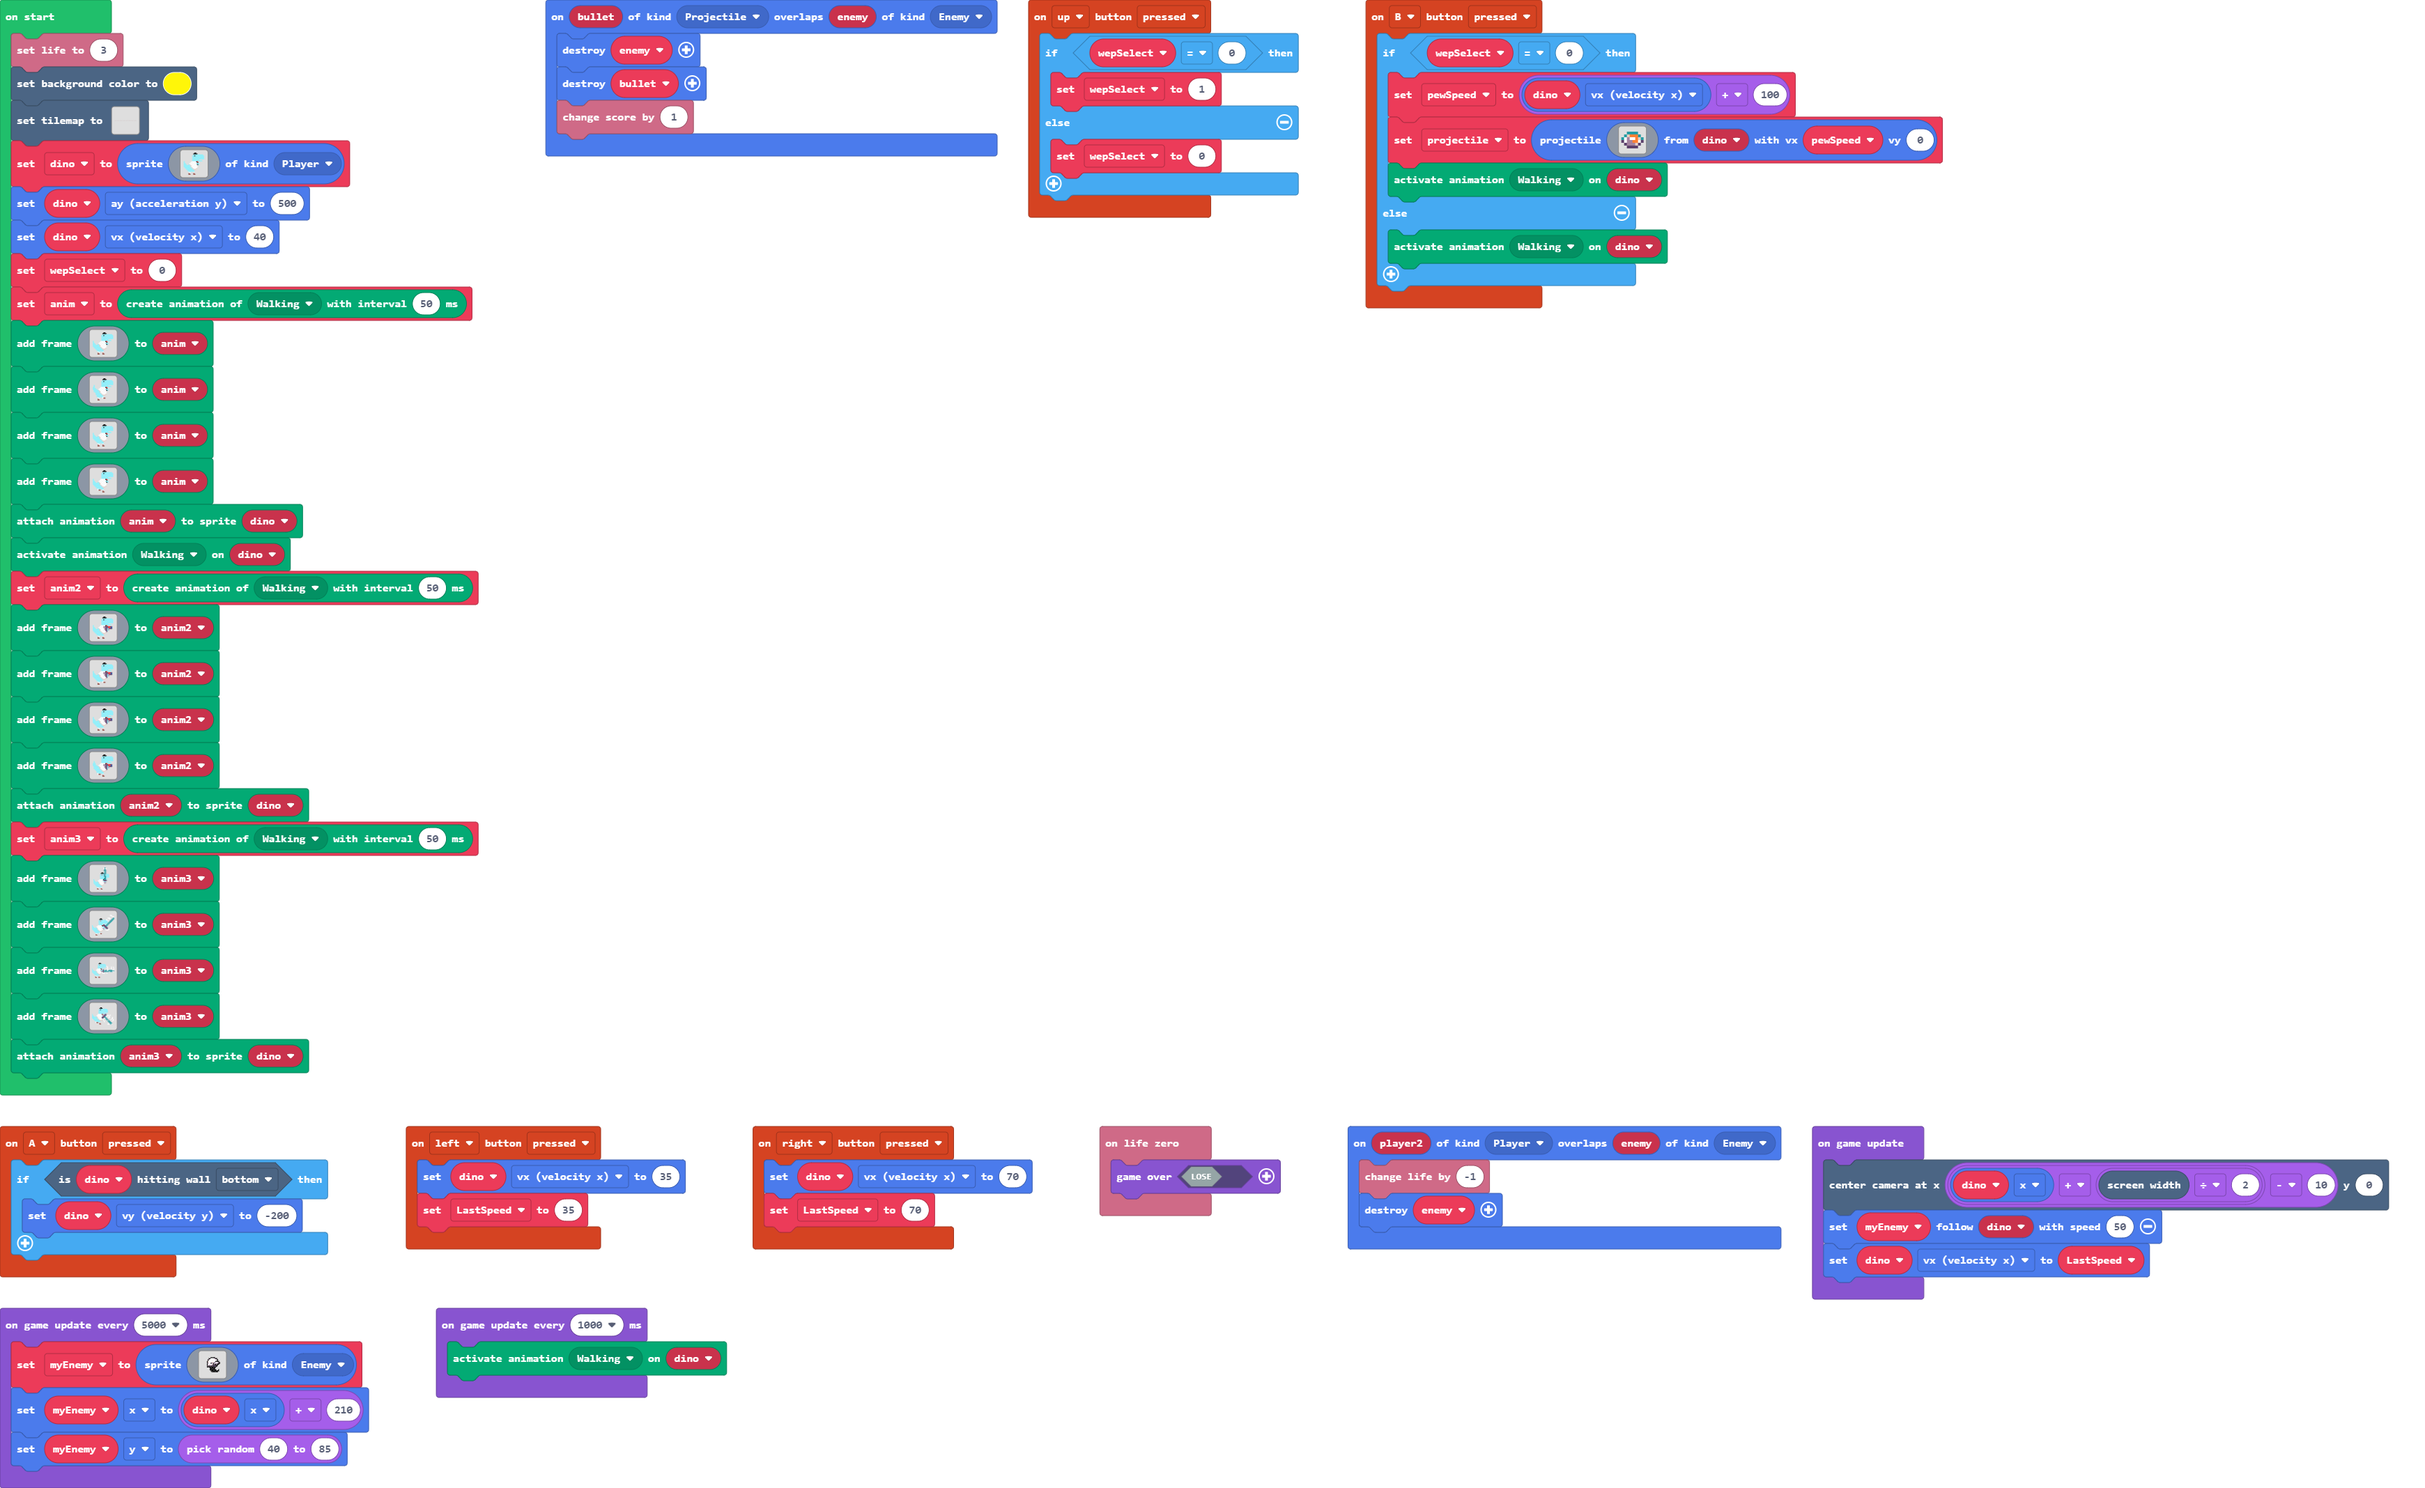
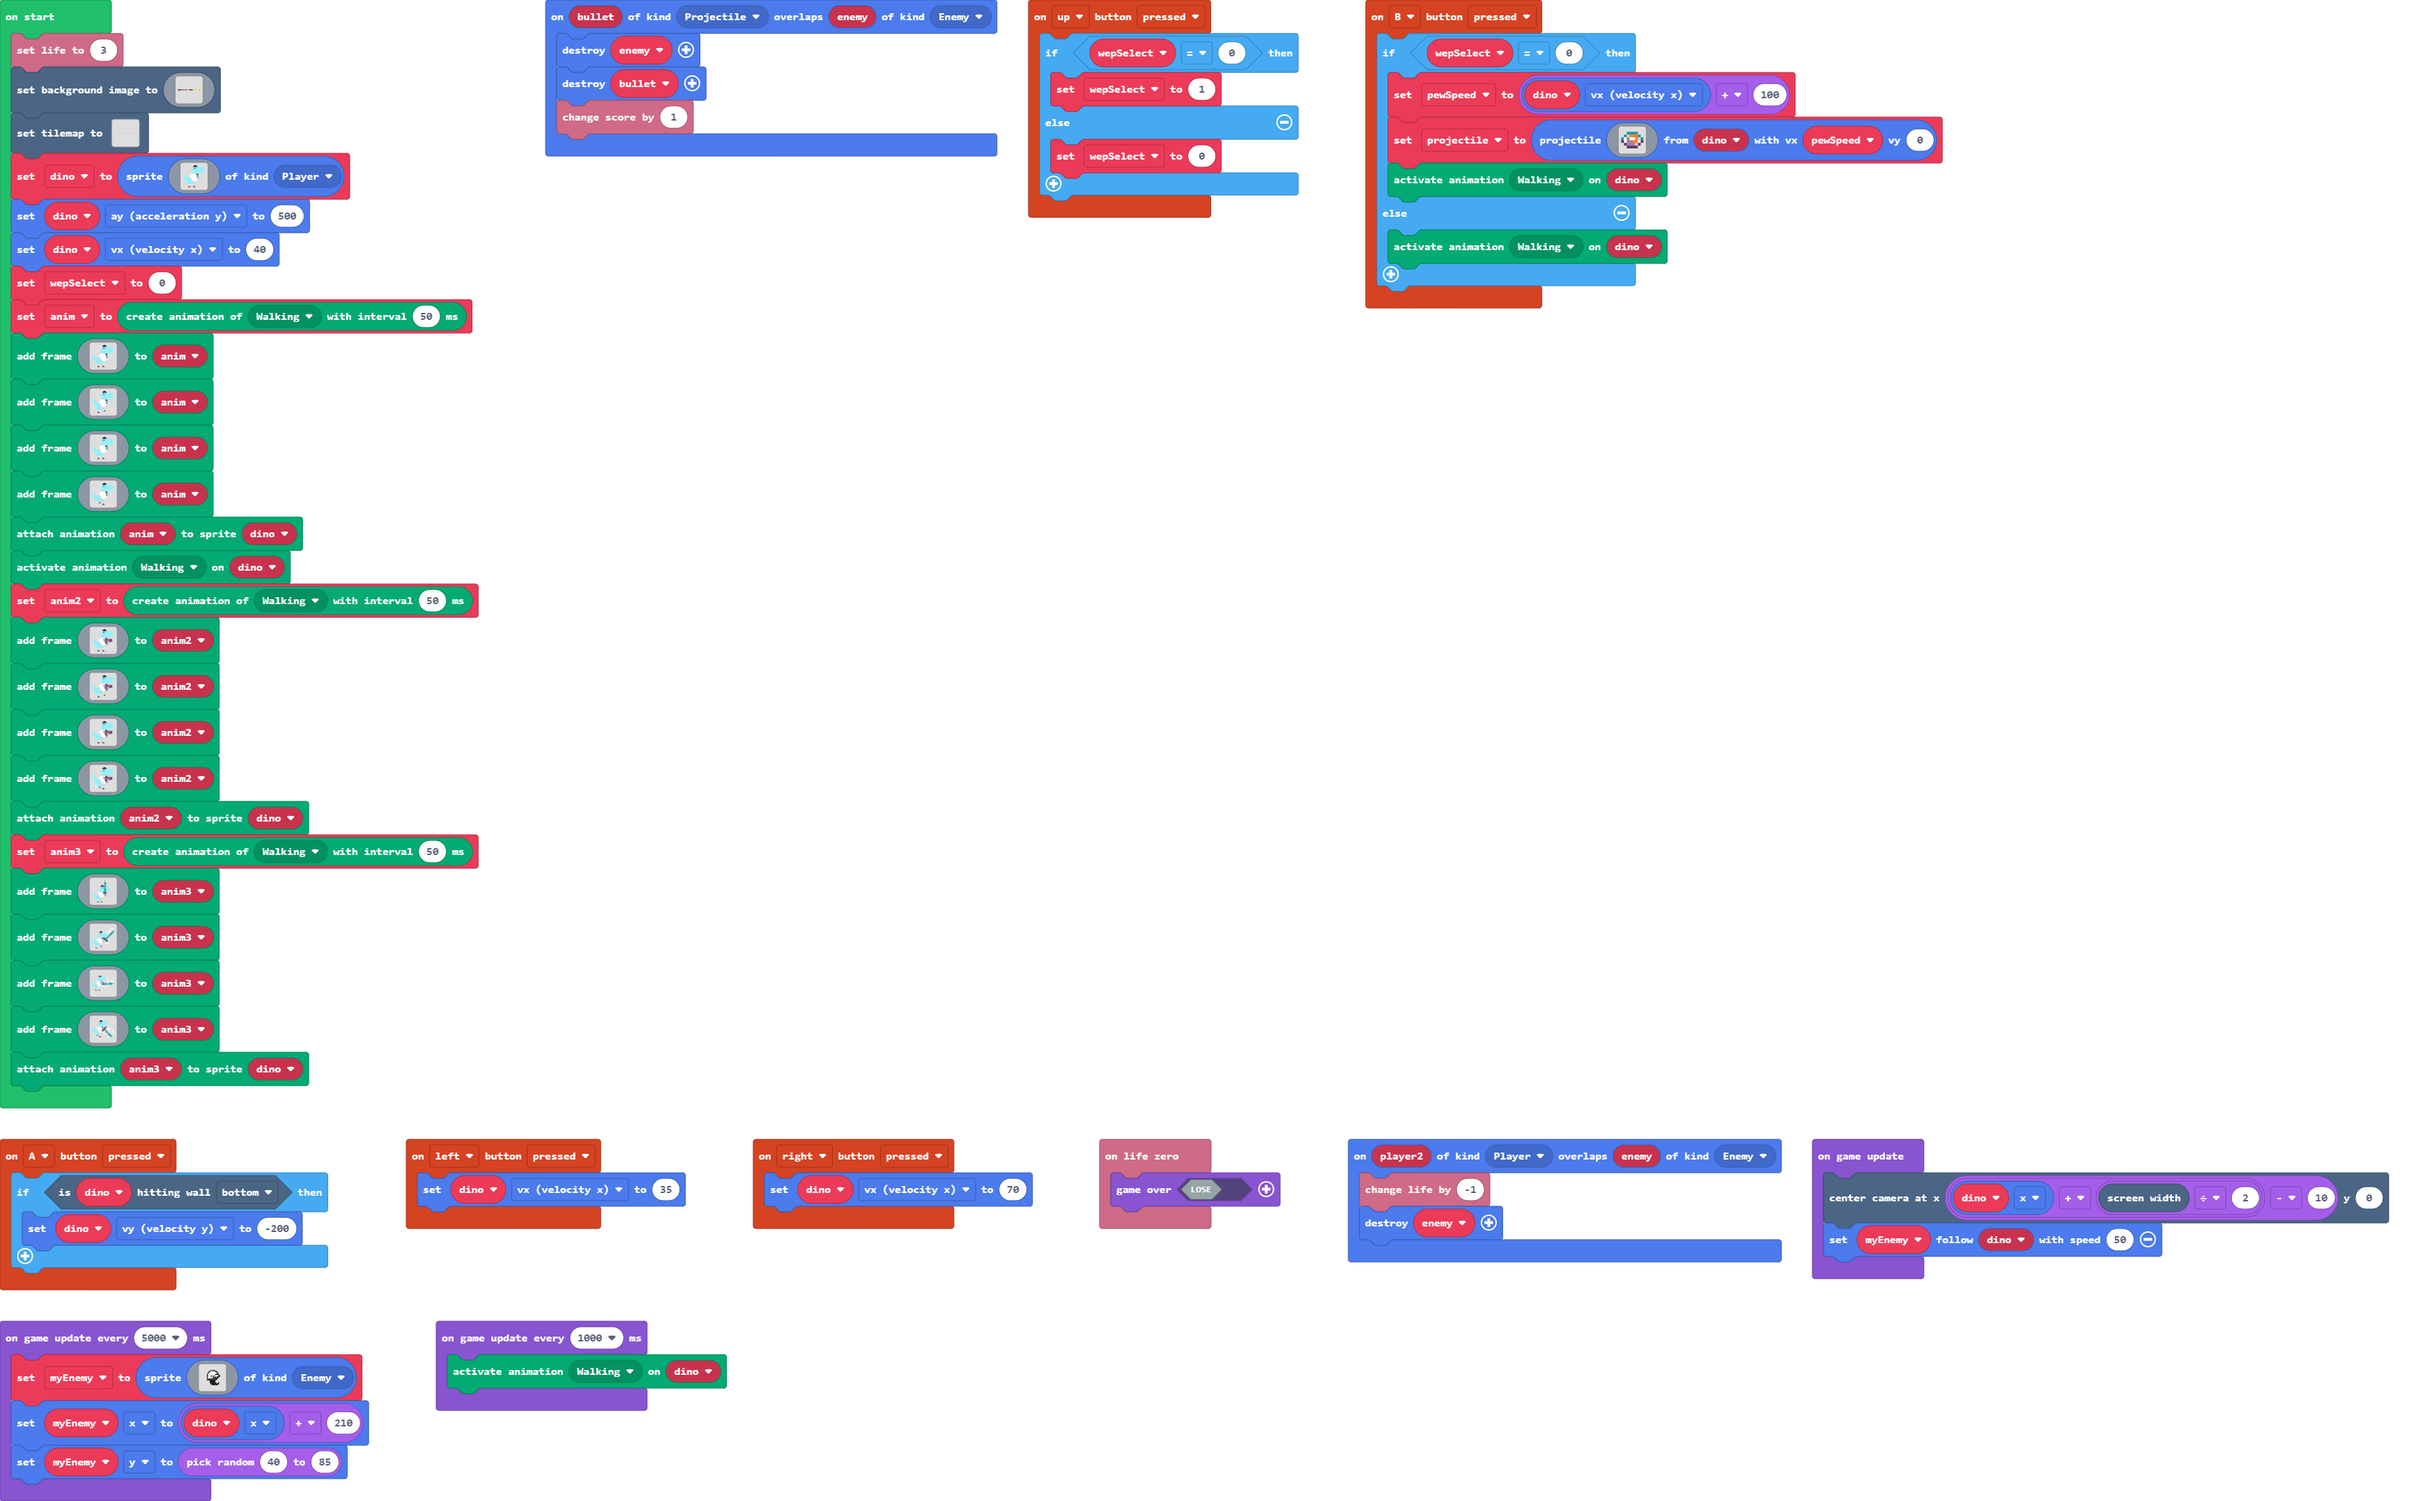
Update pxt.json, main.blocks, main.ts

diff --git a/main.ts b/main.ts
@@ -63,7 +63,9 @@ let pewSpeed = 0
 let wepSelect = 0
 let dino: Sprite = null
 info.setLife(3)
-scene.setBackgroundImage(projectImages.background_dinoshoot)
+scene.setBackgroundImage(img`
+    c e c 3 a 7 e . b a c 7 5 d d 5 3 
+    `)
 tiles.setTilemap(tilemap`level_0`)
 dino = sprites.create(img`
     ...........ff........
